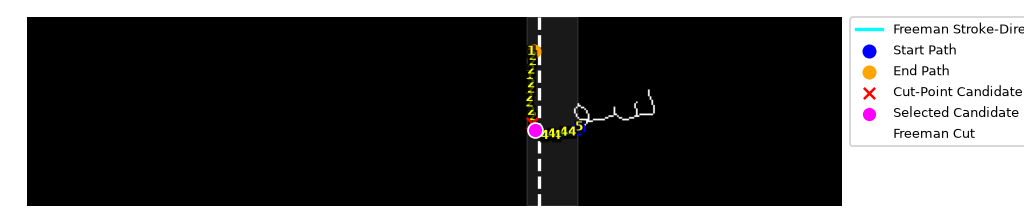
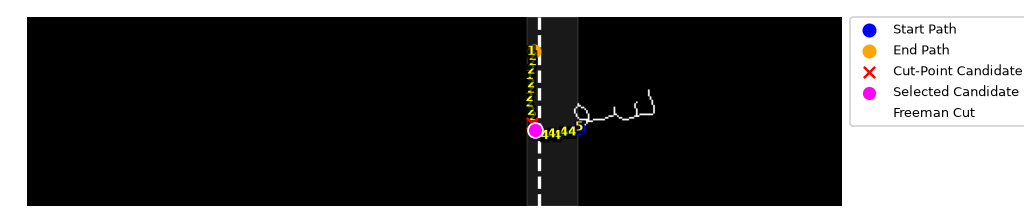
fix: remove legend labels for Freeman path in graph visualization

diff --git a/SATU_CITRA_GRAPH_FCC.py b/SATU_CITRA_GRAPH_FCC.py
@@ -679,7 +679,7 @@ def visualisasi_freeman(debug_records, label_step=4, target_xrange_visual=None):
                 path_seg[:, 0],
                 color="cyan",
                 linewidth=2.0,
-                label="Freeman Stroke-Direction Path" if not sudah_label_path else "_nolegend_",
+                label="_nolegend_",
                 zorder=3
             )
 
